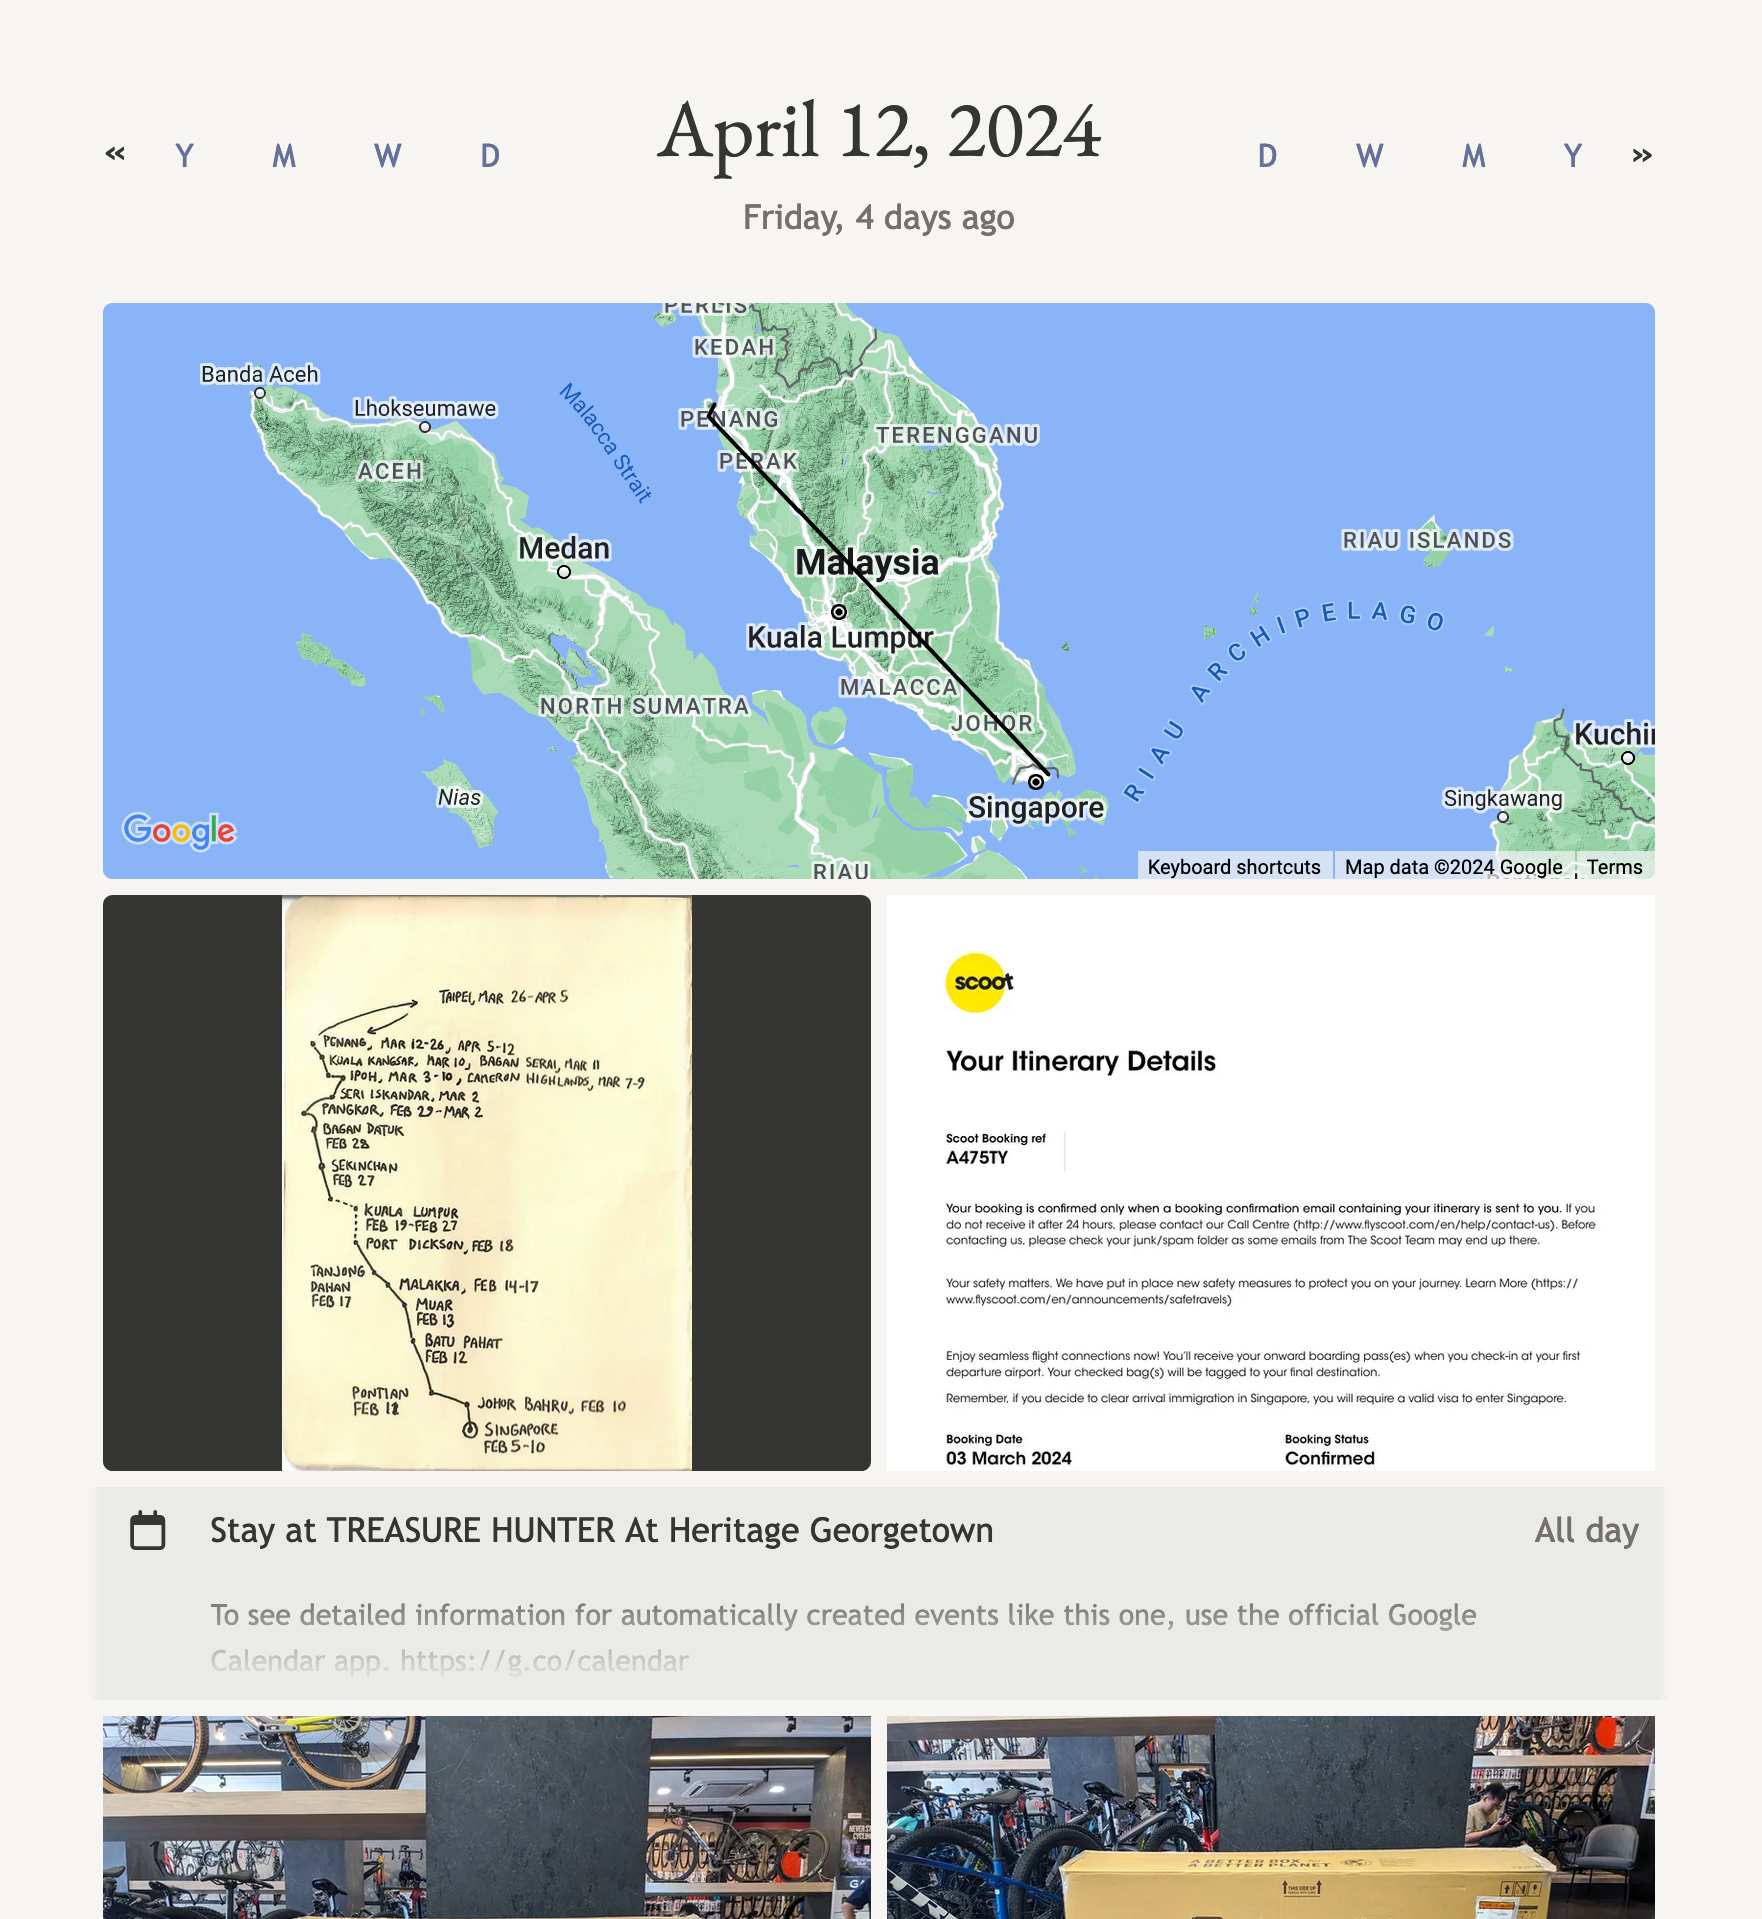
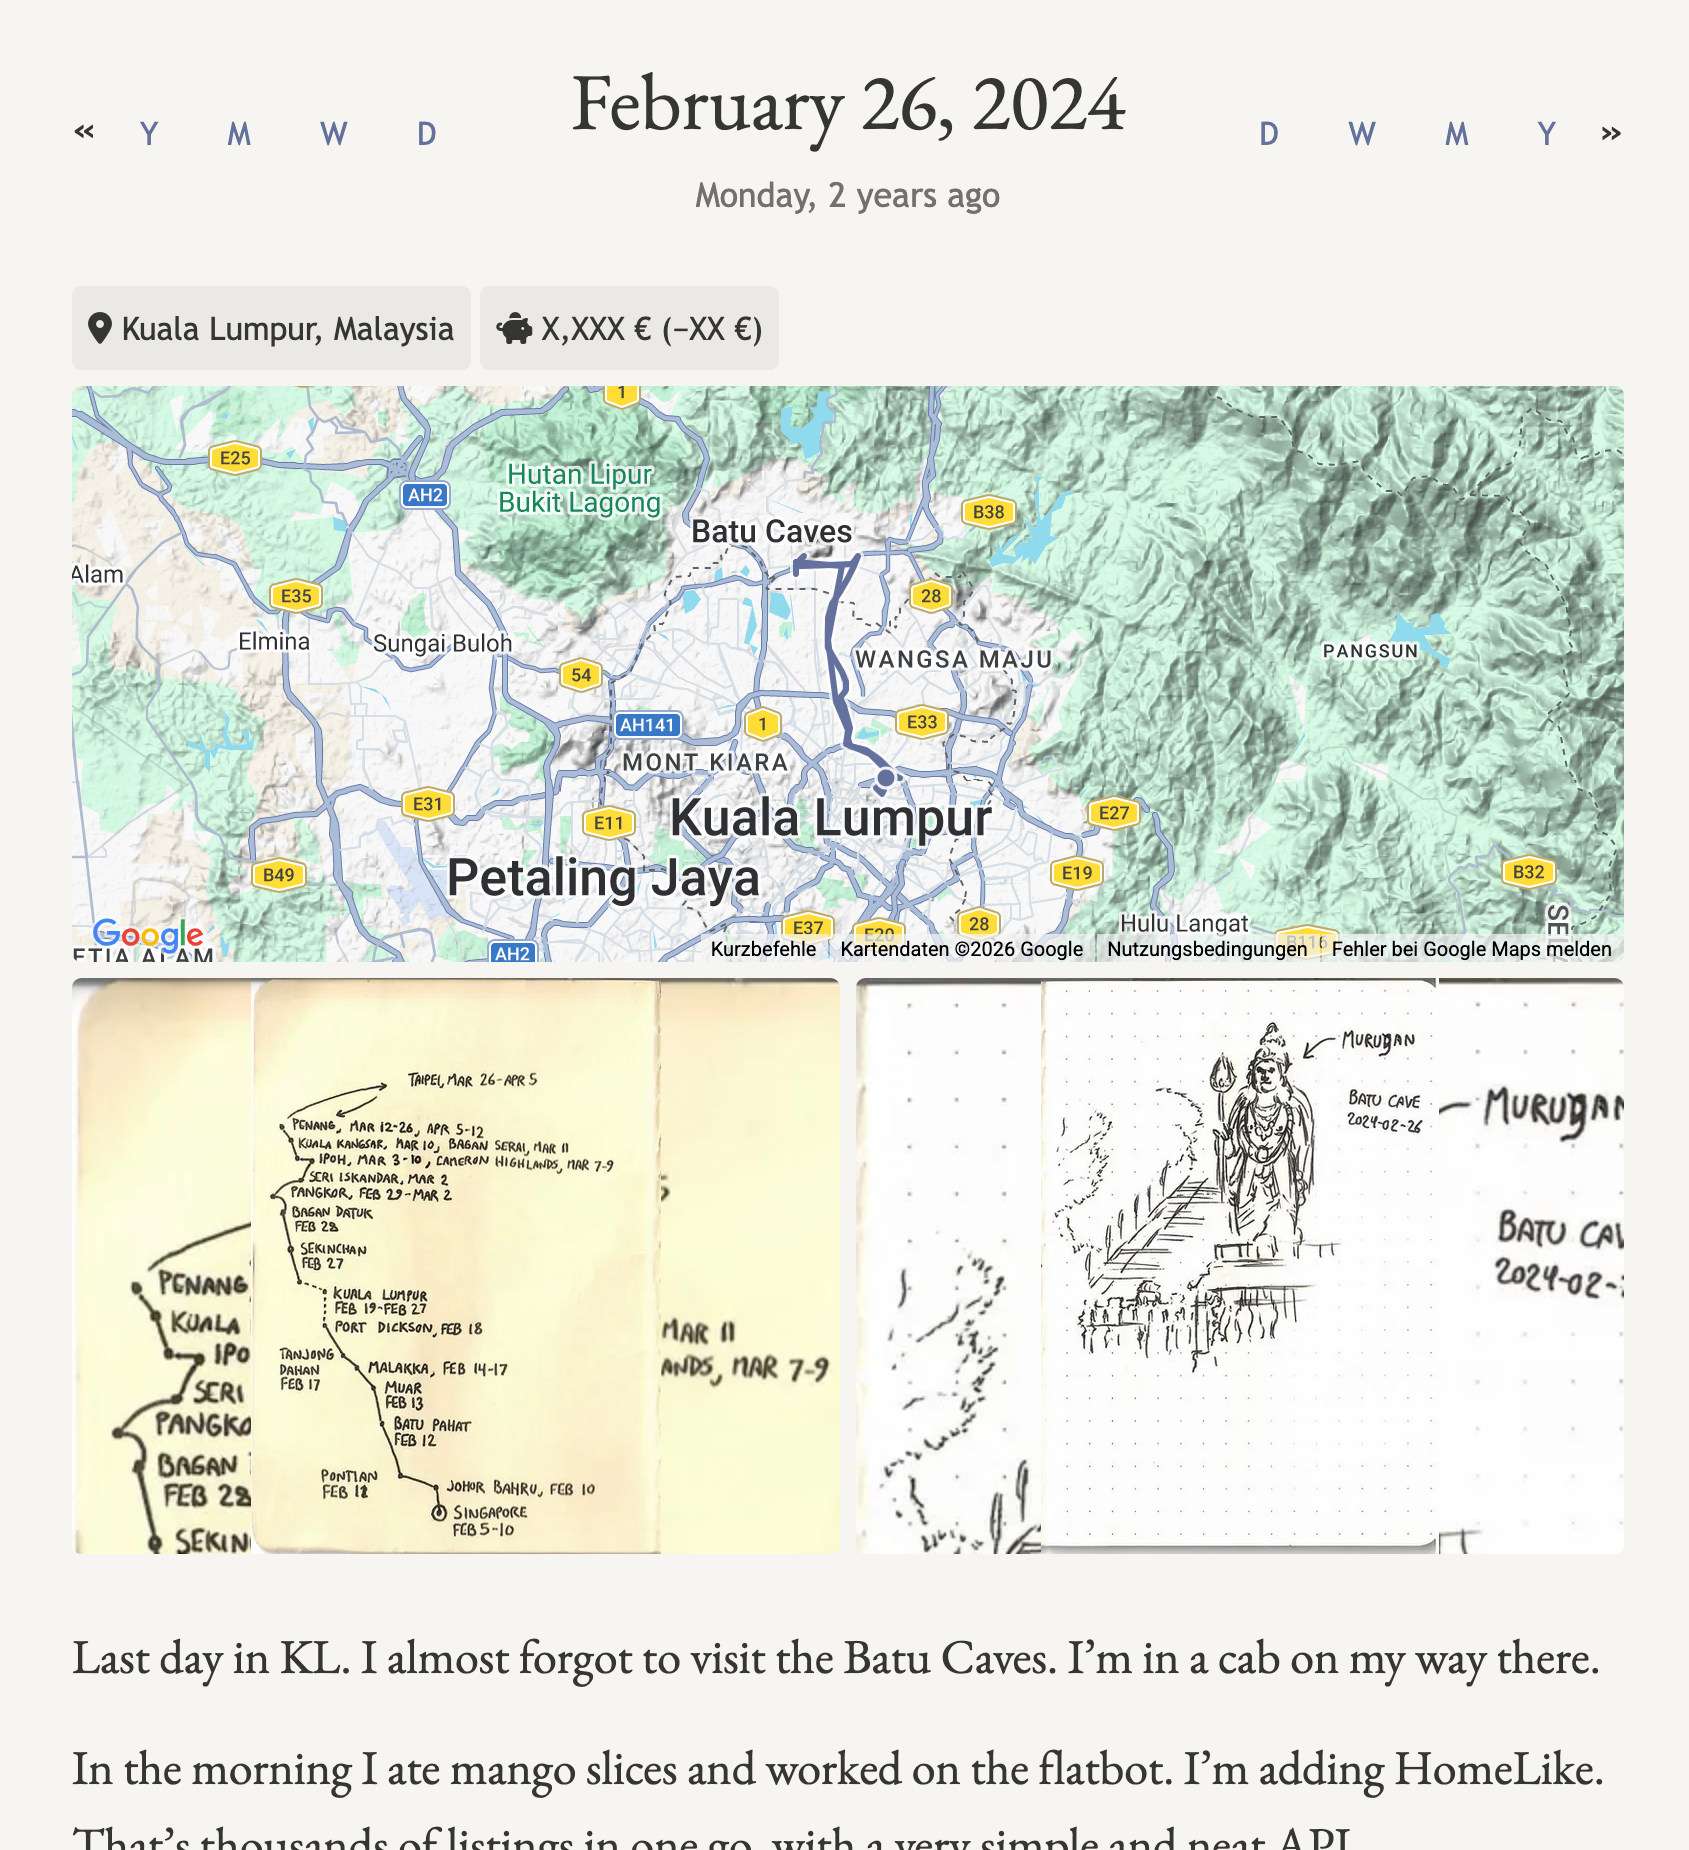
new-timeline: Rewrite intro

diff --git a/frontend/content/projects/new-timeline.md b/frontend/content/projects/new-timeline.md
@@ -4,15 +4,20 @@ description: It builds a timeline out of your photos, diaries, calendars and loc
 date_created: 2023-11-28
 project_url: https://github.com/nicbou/timeline
 repo_url: https://github.com/nicbou/timeline
-featured_image: images/timeline-1.png
 categories: golden
 ---
 
-Some time ago, I built a [timeline thing](/projects/timeline). It ran smoothly for a few years, but it was a heavy, complex project. It was hard to configure, run, reason about and work on. I dreaded touching it.
+On August 3, 2019, I had a crush.
 
-This iteration is leaner, simpler. It's meant to be [calm technology](https://calmtech.com/) that requires as little attention as possible. It draw inspiration from the [simple, efficient static site generator](/projects/ursus) I created for All About Berlin.
+If you looked at my photos, you would see Kazakh food and landscapes, and my mangled motorcycle. Nothing about a crush! You would have to look in my notebook, my journals, or even my Google search history.
+
+I have always wanted a tool that combines my photos, my documents, my journal and the ephemera of my digital life into a single timeline, so I built one.
 
 ![Screenshot of the timeline tool](/images/timeline-2.png)
+
+This is my [second attempt](/projects/timeline) at such a project. The first version ran smoothly for a few years, but it was a complex. It was hard to configure, run, reason about and work on. I dreaded touching it.
+
+This iteration is leaner, simpler. It's [calm technology](https://calmtech.com/) that requires no attention. It draws inspiration from the [simple, efficient static site generator](/projects/ursus) I created for All About Berlin.
 
 Here's roughly how I did it.
 